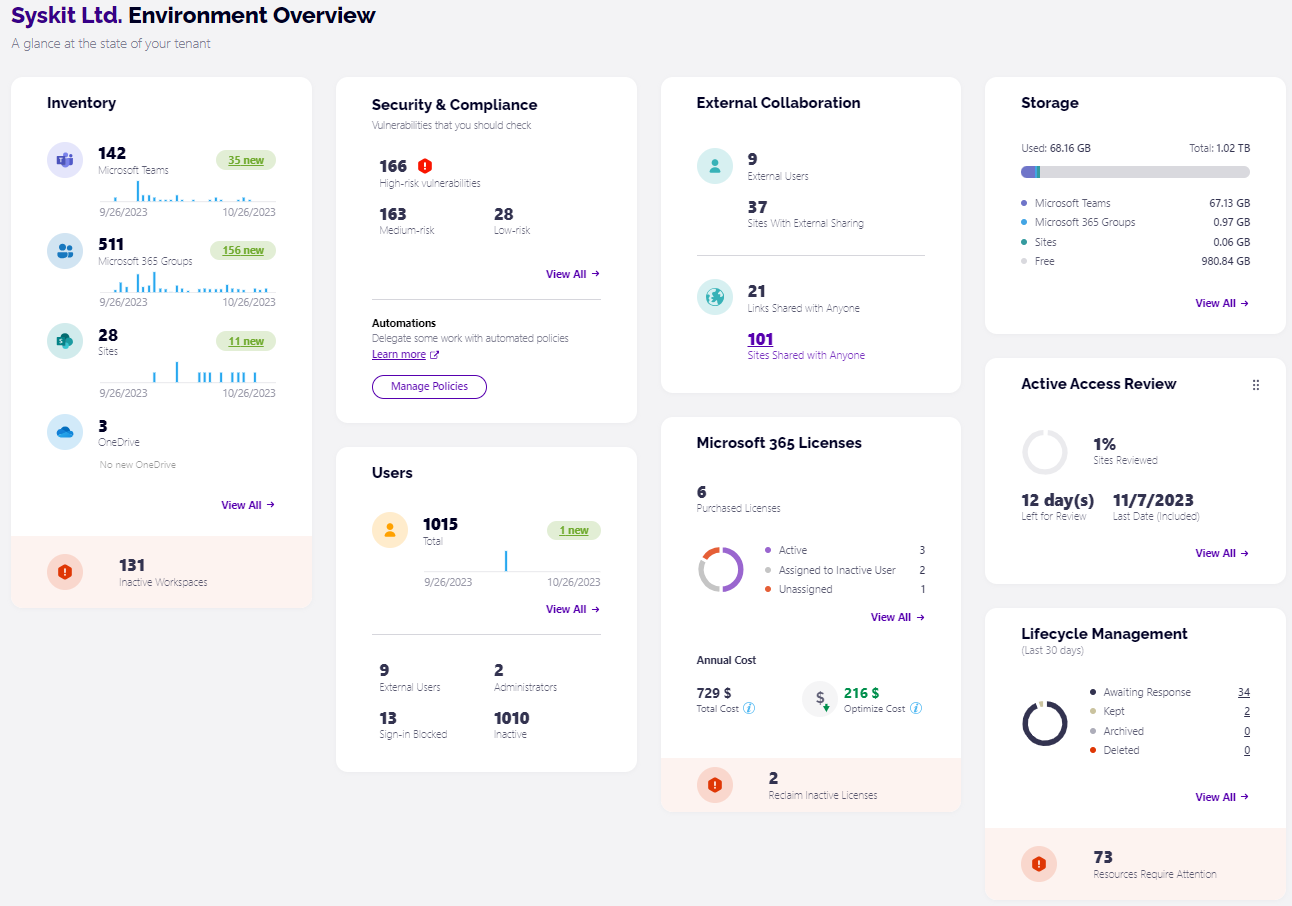
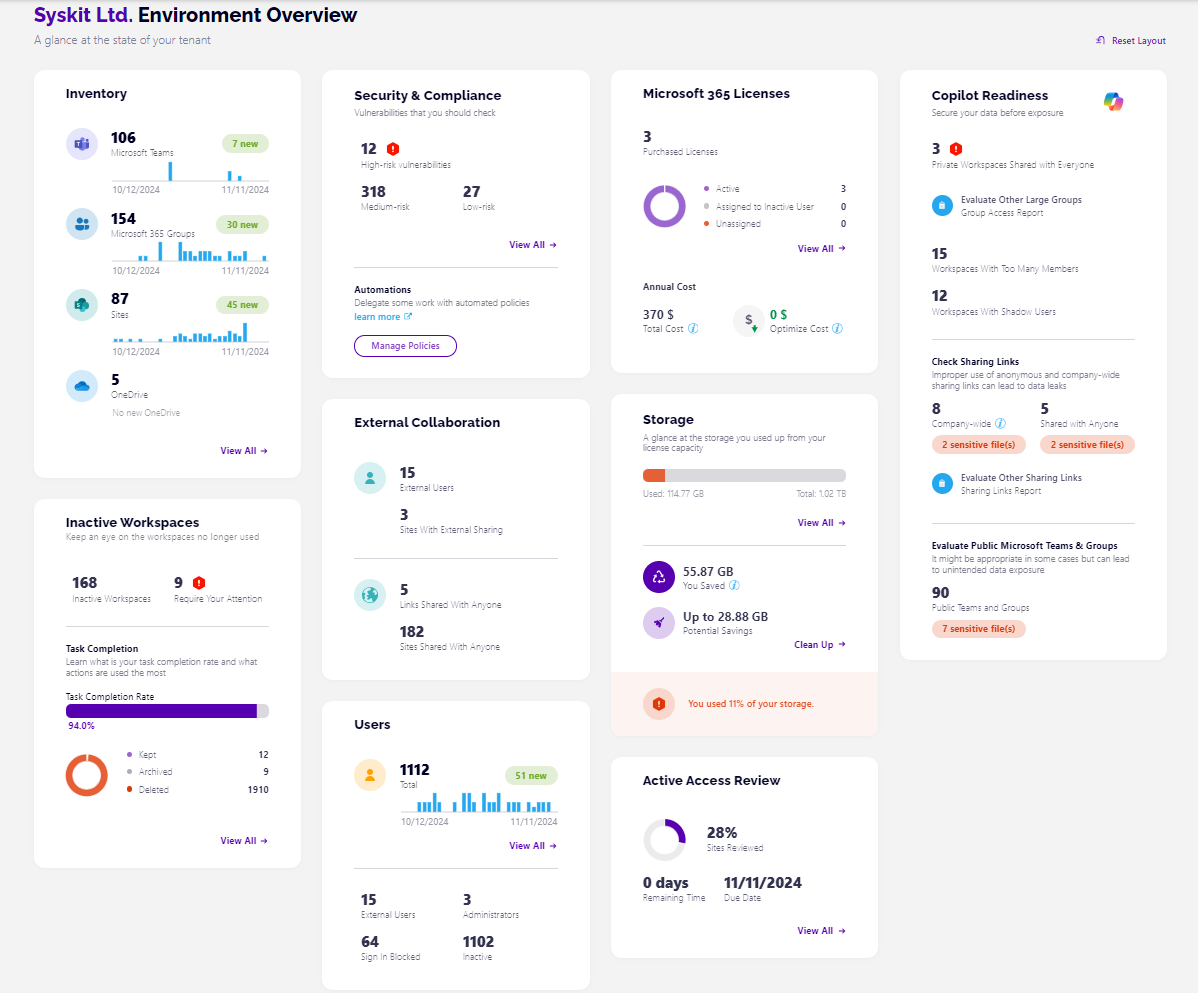
update

diff --git a/configuration/customize-dashboard.md b/configuration/customize-dashboard.md
@@ -13,11 +13,11 @@ The **Syskit Point** Dashboard shows Syskit Point administrators the following i
  * Active Access Review
  * Lifecycle Management
  * Microsoft 365 Licenses
+ * Copilot Readiness
 
 The **Syskit Point** Dashboard shows Syskit Point collaborators the following information in the tiles:
  * Inventory
  * Users
- * Storage
  * External Collaboration
 
 You can customize the order in which these tiles are shown based on which of the features shown on the dashboard are most important to you. 
